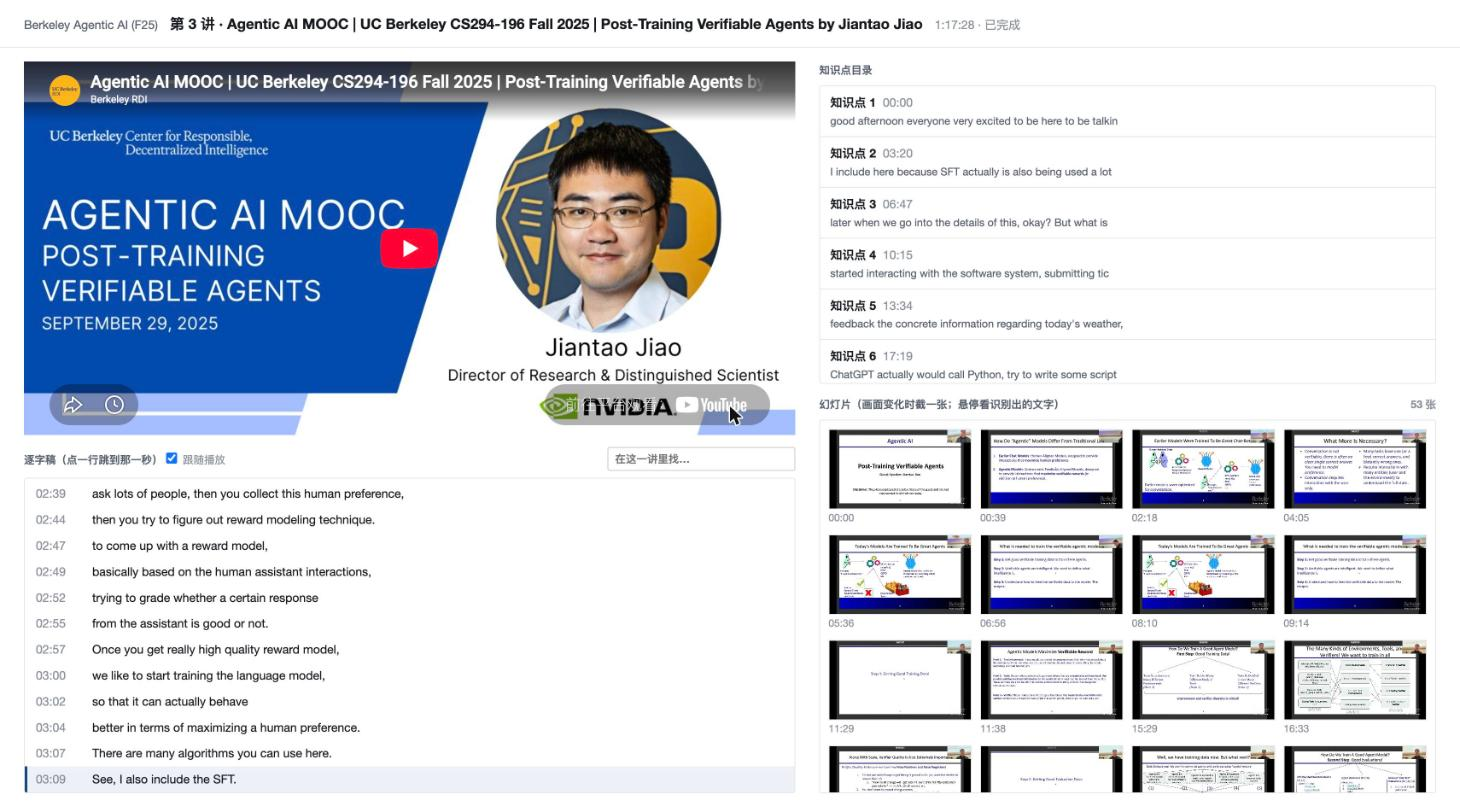
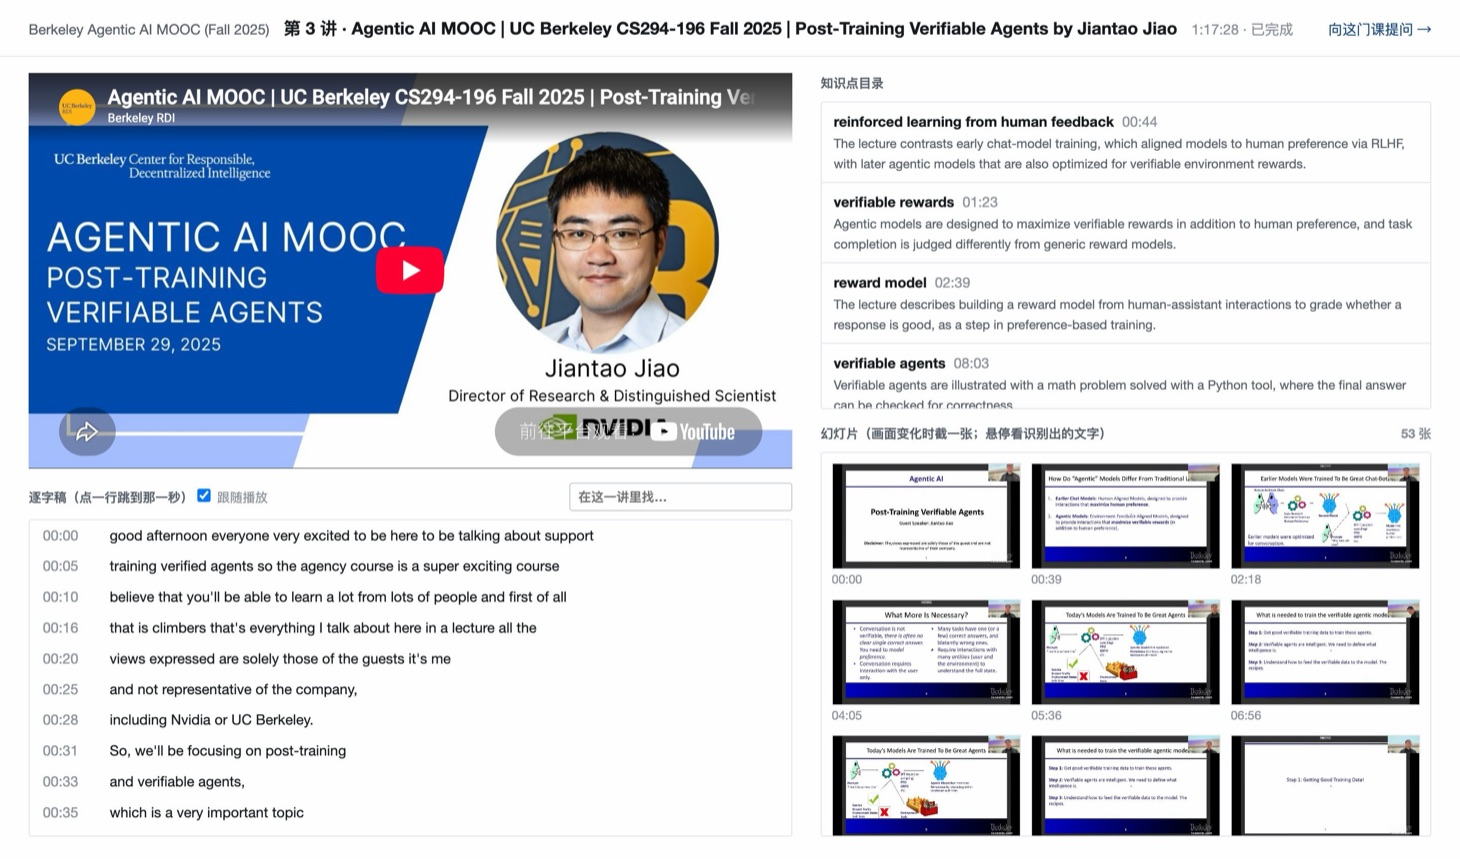
docs: README 的单讲页和问答页截图换成真实模型(Haiku)的内容
单讲页:知识点目录由真实模型生成(新课里同样 11 讲,下载、转写、识别走缓存,60 秒全部完成,每讲 10 到 22 个知识点)。
问答页:一个真实问题的回答,四条结论通过核验、一条被判官拿掉,点证据标签视频定位到那一秒。

Claude-Session: https://claude.ai/code/session_01HFW9n6SL15XTvahZ4UKzZc

Changed region(s): [[0.0, 0.0, 0.9863, 0.9852], [0.8322, 0.0, 0.9863, 0.0616]]

diff --git a/README.zh.md b/README.zh.md
@@ -9,13 +9,13 @@
 
 ![单讲页:播放器、逐字稿、知识点目录、幻灯片,点一下视频就跳到那一秒](docs/img/lecturelens-lecture.jpg)
 
-（图里的知识点目录是模拟模型生成的占位内容。）
+(图里的知识点目录由 Claude Haiku 生成;课程环境默认用模拟模型,不配 key 时目录是占位内容。)
 
 ![课程库:一门课的 11 讲,每一步的状态和用时](docs/img/lecturelens-courses.jpg)
 
-![问答页:一条结论的引文在所引的时间段里找不到,在第 2 层被拿掉](docs/img/lecturelens-qa.jpg)
+![问答页:四条结论通过核验,点证据标签视频跳到第 5 讲 28:33 并显示原话;一条结论被判官拿掉并写明原因](docs/img/lecturelens-qa.jpg)
 
-（问答页的图是用模拟模型演示核验:问题里带 FABRICATE 时模拟模型会编一句引文。）
+(问答页的图是 Claude Haiku 的真实回答。被拿掉的那一条也说明了判官的问题:原文其实说了这些做法,判官嫌结论把它们连成了一个顺序——实测判官否掉的结论一半以上有原文支持,见 benchmarks 第 12 节。)
 
 ## 现在的状态
 

diff --git a/README.md b/README.md
@@ -10,6 +10,11 @@ second.
 
 ![The lecture page: player, transcript, concept directory and slides; a click moves the video to that second](docs/img/lecturelens-lecture.jpg)
 
+![The Q&A page: four claims pass verification; a click on an evidence chip moves the video to lecture 5 at 28:33 and shows the quote; one claim is removed by the judge with its reason](docs/img/lecturelens-qa.jpg)
+
+Both pictures show output of Claude Haiku. The removed claim is also an example of what the evaluation found:
+the judge rejects many claims that the source does support (section 12 of the benchmarks).
+
 | Part | Status |
 |---|---|
 | Ingest: download, transcription, slide OCR, segment index, concept directory | done, measured on the Berkeley Agentic AI MOOC (Fall 2025) recordings |
